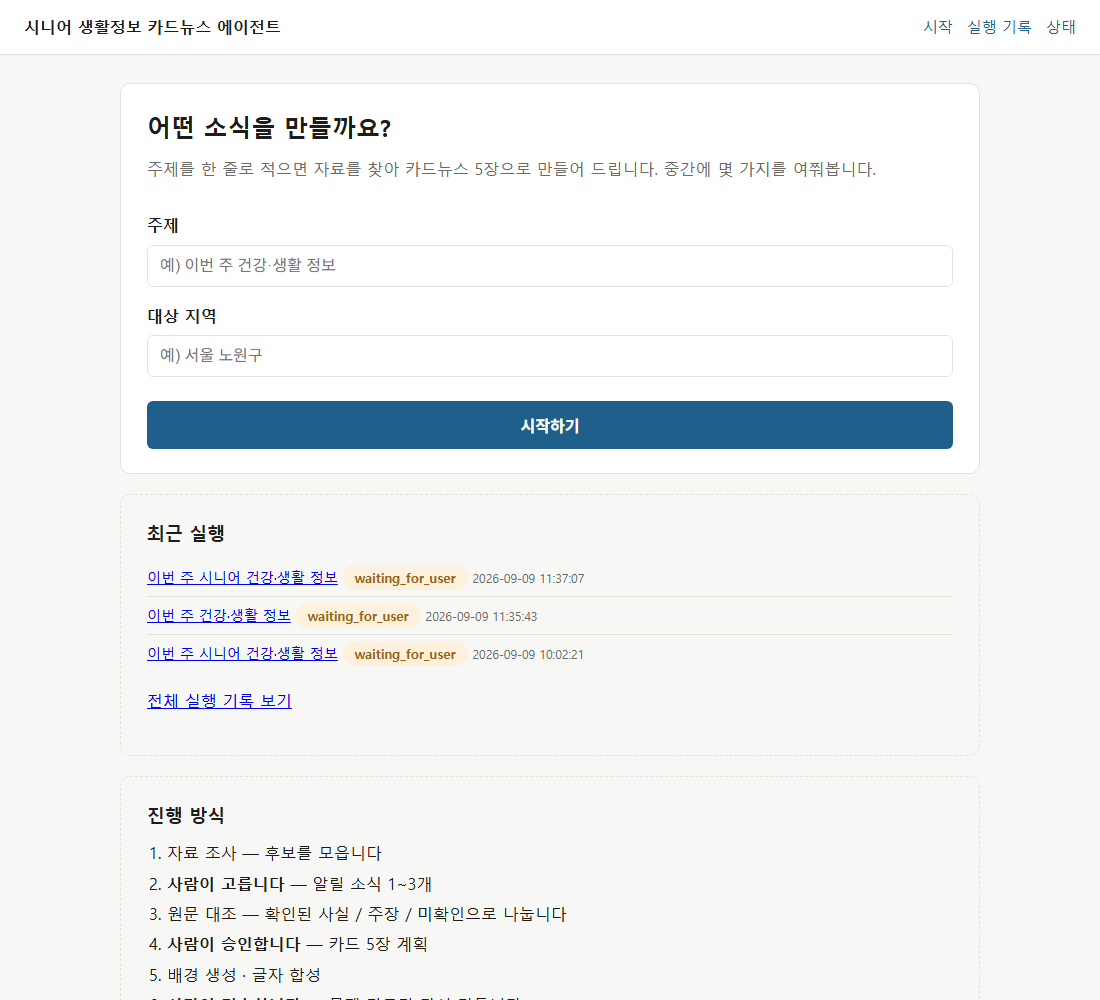
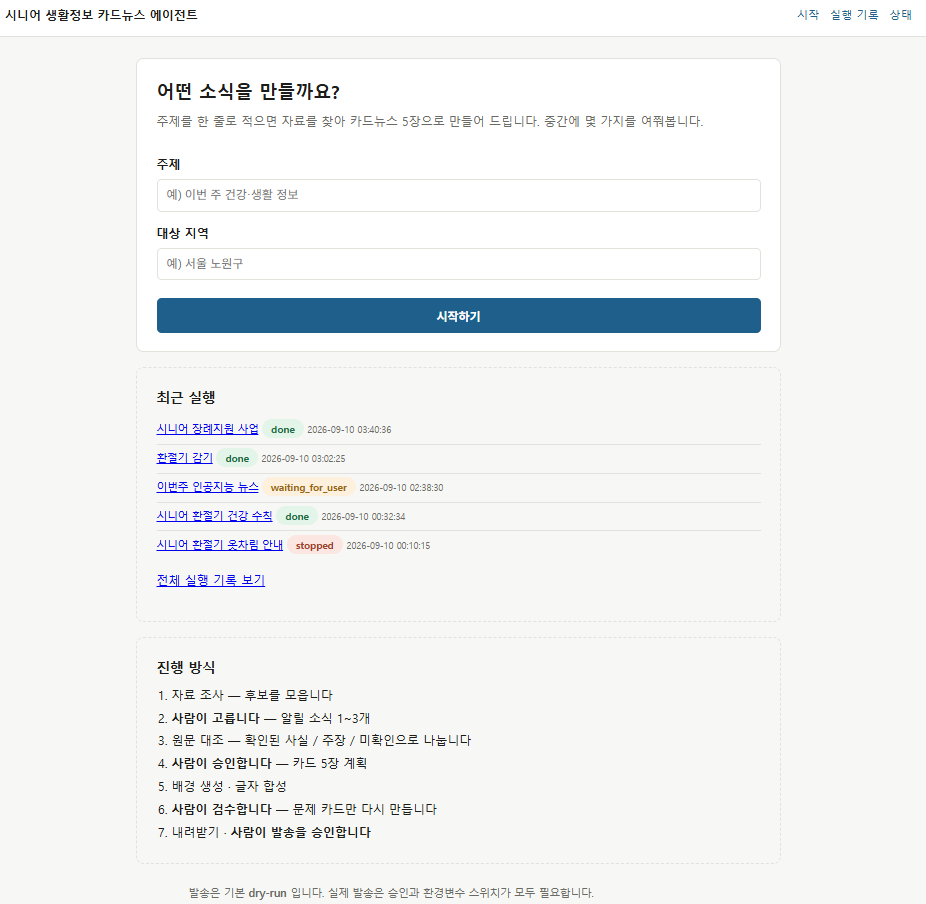
시작 화면 캡처를 전체 페이지로 교체, 완주 4건째 반영
01-start.png 이 화면에 보이는 만큼만 찍혀 「진행 방식」 6번이 글자 중간에서
잘려 있었다. README 에서 처음 나오는 캡처라 인상이 그대로 남는다.
개발자도구의 전체 페이지 캡처로 다시 찍어 1~7 이 다 보이고
하단 dry-run 안내까지 들어갔다.

그 사이 실행이 하나 더 있었다 — run-0b6e4dbef589, 7/7, 루프 28.
고친 뒤 아무 손도 대지 않고 돌린 것이고, 세 번 연속 실패하던 자리를
연달아 통과했다. 한 번의 성공이 우연이 아니었다는 근거로 EVAL 표에 넣었다.

그 실행에서 send_line 수정이 **다른 방식으로** 한 번 더 걸렸다.
이번엔 모델이 경로를 5개 줬는데 이름이 실제 파일과 달랐다.

  모델이 준 경로(5개)와 실제 카드가 달라 폴더에서 직접 읽었다 (5장)

개수를 맞게 준 것과 맞는 파일을 준 것은 다르다. 모델이 틀리는 방식은
매번 새로우므로 "이번 실수를 막는" 대신 앱이 직접 읽게 한 것이 맞았다.
같은 실행에서 발송 잠금도 정상 작동해 dry-run 으로 처리됐다 —
어제 되돌린 스위치가 실제로 막은 것을 확인한 셈이다.

EVAL 38건 / 완주 4건. CLAUDE.md 지표도 맞췄다.

Changed region(s): [[0.121, 0.0929, 0.8769, 1.0], [0.0, 0.0, 0.2419, 0.031], [0.8467, 0.0, 0.9978, 0.031]]

diff --git a/scripts/make_eval.py b/scripts/make_eval.py
@@ -426,11 +426,15 @@ def build(rows: list[dict]) -> str:
 | `run-ce638ca65581` | `gpt-5-mini` | 30 | 6/7 | 재현 시도 ③ — 상한 자체가 부족 |
 | `run-e5484e2520c7` | `gpt-5-mini` | 27 | **7/7** | 세 가지를 다 고친 뒤 다시 완주 |
 | **`run-458cf2910262`** | `gemini-3.5-flash-lite` (폴백) | **25** | **7/7** | 🔴 **처음으로 dry-run 이 아닌 실제 발송까지** |
+| `run-0b6e4dbef589` | `gemini-3.5-flash-lite` (폴백) | 28 | **7/7** | 고친 뒤 손 안 대고 한 번 더 (dry-run, 개입 9회) |
 
-**완주 3건이 서로 다른 모델에서 나왔고 그중 둘은 제공자도 다르다.**
+**완주 4건이 서로 다른 모델에서 나왔고 그중 둘은 제공자도 다르다.**
 막힌 자리는 모델이 아니라 구조에 있었다는 뜻이다 — 실제로 고친 것 중 모델 쪽 문제는 하나도 없었다.
-마지막 실행은 설정이 `gemini-3.5-flash` 였지만 한도에 걸려 **lite 로 갈아탄 채로 완주했다.**
-폴백이 품질 저하가 아니라 **끝까지 가게 해 준 장치**로 작동한 첫 사례다.
+뒤의 두 실행은 설정이 `gemini-3.5-flash` 였지만 한도에 걸려 **lite 로 갈아탄 채로 완주했다.**
+폴백이 품질 저하가 아니라 **끝까지 가게 해 준 장치**로 작동했다.
+
+마지막 `run-0b6e4dbef589` 은 고친 뒤 **아무 손도 대지 않고 돌린 것**이다.
+세 번 연속 실패하던 자리를 이제 연달아 통과한다 — 한 번의 성공이 우연이 아니었다는 근거다.
 
 ### 마지막 한 칸은 실제로 보내 봐야 알 수 있었다
 
@@ -455,6 +459,17 @@ dry-run 이 이 실패를 가려 주고 있었다 — 켜 두면 안전하지만
 
 `record_publication` 이 남았다는 것은 **다음 실행이 이 주제를 중복으로 걸러낸다**는 뜻이다.
 MCP 서버가 도구를 노출하는 데서 끝나지 않고 되먹임을 만든 것도 이 실행에서 처음 확인됐다.
+
+그 뒤 `run-0b6e4dbef589` 에서 같은 장치가 **다른 방식으로** 한 번 더 걸렸다.
+이번에는 모델이 경로를 5개 줬는데 **이름이 실제 파일과 달랐다.**
+
+```
+모델이 준 경로(5개)와 실제 카드가 달라 폴더에서 직접 읽었다 (5장)
+```
+
+개수를 맞게 준 것과 맞는 파일을 준 것은 다르다. **모델이 틀리는 방식은 매번 새롭다** —
+그래서 "이번 실수를 막는" 것이 아니라 **앱이 직접 읽는 쪽으로** 고친 것이 맞았다.
+같은 실행에서 발송 잠금도 정상 작동해 dry-run 으로 처리됐다.
 
 마지막 완주 실행이 실제로 무엇을 불렀는지 그대로 펼치면 이렇다.
 

diff --git a/CLAUDE.md b/CLAUDE.md
@@ -95,14 +95,15 @@ cloudflared --config deploy/cloudflared.yml tunnel run cardnews
 ### 지표 (2026-09-10)
 
 ```
-실행 37건 · 카드 생성 8건 · 완주(7/7) 3건 · 실발송 완주 1건
+실행 38건 · 카드 생성 9건 · 완주(7/7) 4건 · 실발송 완주 1건
 ```
 
 완주율이 낮은 이유는 `EVAL.md` 1장에 원인 표로 적어뒀다. **실패한 실행을 지우지 않았다.**
 🔴 **한 번 완주했다고 되는 게 아니었다.** 첫 완주 뒤 재현을 세 번 연속 실패했고,
-막힌 자리마다 원인이 달랐다 (D-023 · D-024). 완주 3건은 서로 다른 모델에서 나왔다 —
+막힌 자리마다 원인이 달랐다 (D-023 · D-024). 완주 4건은 서로 다른 모델에서 나왔다 —
 막힌 것은 모델이 아니라 구조였다.
-**마지막 1건은 dry-run 이 아니라 실제로 폰까지 갔다** — 그때서야 발송 버그가 드러났다.
+**그중 1건은 dry-run 이 아니라 실제로 폰까지 갔다** — 그때서야 발송 버그가 드러났다.
+고친 뒤에는 손을 안 대고도 한 번 더 완주했다.
 
 ### 키가 채워졌는지 확인
 
